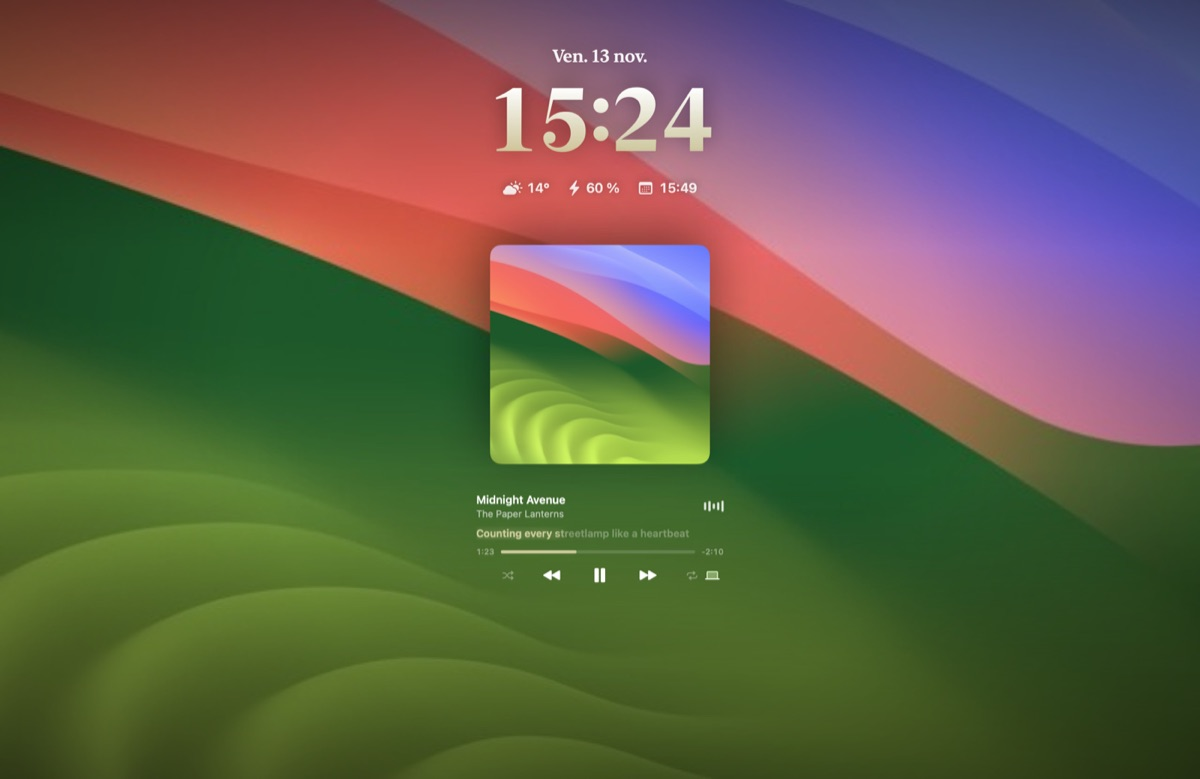
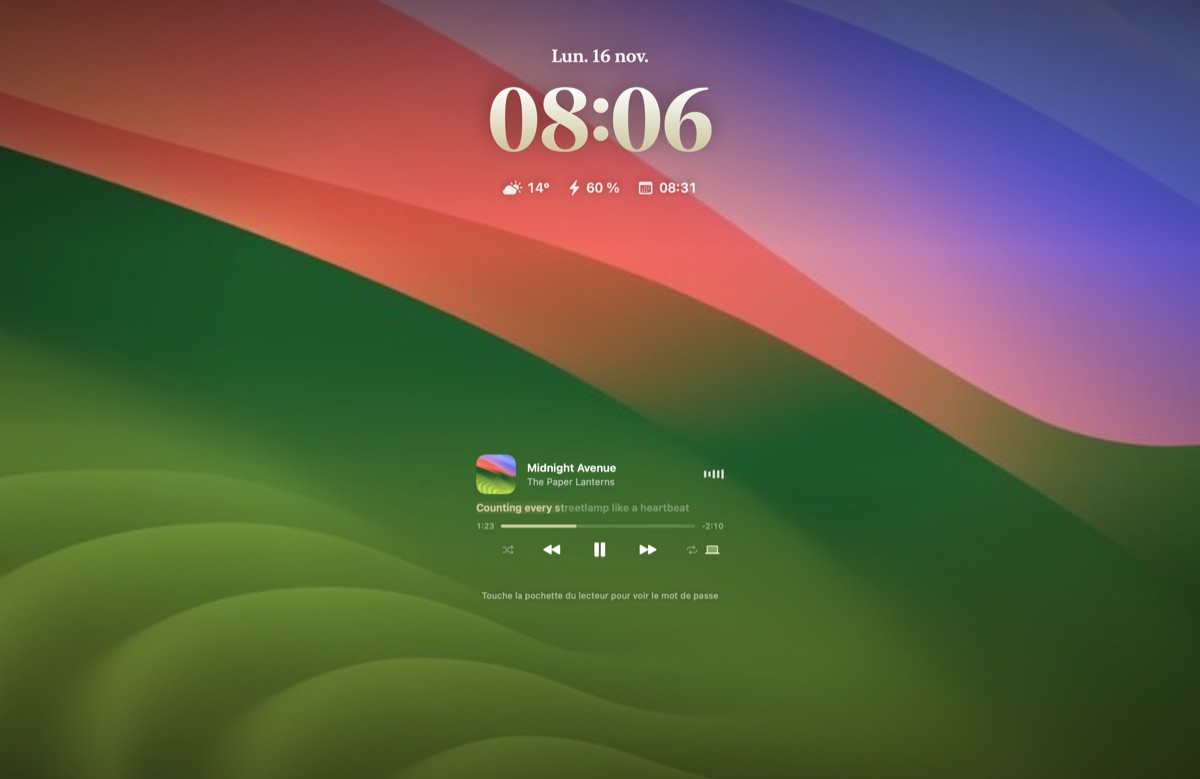
feat(écran verrouillé): pochette du lecteur pour masquer le fond
- un clic sur la pochette du lecteur masque ou remet le fond plein écran,
  pour retrouver l'heure de macOS et le champ du mot de passe ; le fond revient à chaque verrouillage
- plus de pochette moyenne au centre en plein écran (seulement dans le style Grande pochette)
- le lecteur reste en bas de l'écran, fond affiché ou masqué
- README et capture mis à jour

Changed region(s): [[0.37, 0.2465, 0.6167, 0.7702], [0.4008, 0.0616, 0.6167, 0.2465]]

diff --git a/Sources/DynamicIslandMac/LockScreen.swift b/Sources/DynamicIslandMac/LockScreen.swift
@@ -90,11 +90,26 @@ final class LockScreenController {
             self?.positionAll()
         }
         prepareLockWindows()
-        // Le morceau peut arriver ou changer pendant le verrouillage : le fond suit.
-        model.$track.receive(on: RunLoop.main).sink { [weak self] _ in
-            guard let self, self.isLocked, AppSettings.shared.lockScreen else { return }
-            DispatchQueue.main.async { self.lockBackground?.alphaValue = self.showsBackground ? 1 : 0 }
-        }.store(in: &cancellables)
+        // Le morceau peut changer pendant le verrouillage, et un clic sur la pochette masque le fond.
+        model.$track.map { _ in () }.merge(with: model.$lockBackgroundHidden.map { _ in () })
+            .receive(on: RunLoop.main)
+            .sink { [weak self] in
+                DispatchQueue.main.async {
+                    guard let self else { return }
+                    let visible = self.showsBackground
+                    if self.isLocked, AppSettings.shared.lockScreen {
+                        NSAnimationContext.runAnimationGroup { ctx in
+                            ctx.duration = 0.35
+                            self.lockBackground?.animator().alphaValue = visible ? 1 : 0
+                        }
+                    }
+                    if let preview = self.previewBackground, self.previewWindow?.isVisible == true {
+                        visible ? preview.orderFrontRegardless() : preview.orderOut(nil)
+                        self.previewWindow?.orderFrontRegardless()
+                    }
+                }
+            }
+            .store(in: &cancellables)
     }
 
     private func prepareLockWindows() {
@@ -118,7 +133,7 @@ final class LockScreenController {
     }
 
     private var showsBackground: Bool {
-        AppSettings.shared.lockScreenStyle == .fullScreen && model.track != nil
+        AppSettings.shared.lockScreenStyle == .fullScreen && model.track != nil && !model.lockBackgroundHidden
     }
 
     private func locked() {
@@ -126,6 +141,7 @@ final class LockScreenController {
         debugLog("lock: écran verrouillé (option \(AppSettings.shared.lockScreen))")
         guard AppSettings.shared.lockScreen, let w = lockWindow, let bg = lockBackground else { return }
         refreshNowPlaying?()
+        model.lockBackgroundHidden = false // à chaque verrouillage, le fond revient
         positionAll()
         bg.alphaValue = showsBackground ? 1 : 0
         w.alphaValue = 1
@@ -204,7 +220,7 @@ struct LockScreenView: View {
 
     var body: some View {
         GeometryReader { geo in
-            let fullScreen = settings.lockScreenStyle == .fullScreen && model.track != nil
+            let fullScreen = settings.lockScreenStyle == .fullScreen && model.track != nil && !model.lockBackgroundHidden
             ZStack(alignment: .top) {
                 VStack(spacing: 0) {
                     if fullScreen {
@@ -219,7 +235,7 @@ struct LockScreenView: View {
                     Spacer(minLength: 16)
                     if let track = model.track {
                         VStack(spacing: 22) {
-                            if settings.lockScreenStyle != .card {
+                            if settings.lockScreenStyle == .bigArt {
                                 ArtworkView(image: model.artwork,
                                             size: min(geo.size.height * (fullScreen ? 0.34 : 0.28), 320),
                                             radius: 14)
@@ -228,11 +244,21 @@ struct LockScreenView: View {
                                     .transition(.scale(scale: 0.92).combined(with: .opacity))
                             }
                             LockPlayerCard(model: model, track: track, compact: fullScreen)
+                            if settings.lockScreenStyle == .fullScreen {
+                                Text(model.lockBackgroundHidden
+                                     ? "Touche la pochette du lecteur pour la remettre en plein écran"
+                                     : "Touche la pochette du lecteur pour voir le mot de passe")
+                                    .font(.system(size: 11, weight: .medium))
+                                    .foregroundStyle(.white.opacity(0.55))
+                                    .shadow(color: .black.opacity(0.4), radius: 4)
+                            }
                         }
                         .offset(y: -CGFloat(settings.lockScreenOffset))
                         .transition(.opacity.combined(with: .move(edge: .bottom)))
                     }
+                    // Style plein écran : le lecteur reste en bas, que le fond soit affiché ou masqué.
                     Spacer(minLength: 28)
+                        .frame(maxHeight: settings.lockScreenStyle == .fullScreen ? geo.size.height * 0.07 : .infinity)
                 }
                 .frame(width: geo.size.width, height: geo.size.height)
             }
@@ -357,7 +383,13 @@ struct LockPlayerCard: View {
     var body: some View {
         VStack(spacing: compact ? 8 : 10) {
             HStack(spacing: 14) {
-                if !compact { ArtworkView(image: model.artwork, size: 58, radius: 12) }
+                ArtworkView(image: model.artwork, size: compact ? 50 : 58, radius: 12)
+                    .contentShape(Rectangle())
+                    .onTapGesture {
+                        guard AppSettings.shared.lockScreenStyle == .fullScreen else { return }
+                        model.lockBackgroundHidden.toggle()
+                    }
+                    .help("Masquer ou afficher la pochette en plein écran")
                 VStack(alignment: .leading, spacing: 2) {
                     Text(track.title).font(.system(size: 14, weight: .semibold))
                     Text(track.artist).font(.system(size: 12)).foregroundStyle(.white.opacity(0.65))

diff --git a/Sources/DynamicIslandMac/NotchModel.swift b/Sources/DynamicIslandMac/NotchModel.swift
@@ -156,6 +156,8 @@ final class NotchModel: ObservableObject {
     @Published var events: [AgendaEvent] = []
     @Published var weather: WeatherInfo?
     @Published var clipboard: [ClipItem] = []
+    /// Écran verrouillé : fond plein écran masqué par un clic sur la pochette (pour le mot de passe).
+    @Published var lockBackgroundHidden = false
     @Published var shelf: [URL] = [] {
         didSet { UserDefaults.standard.set(shelf.map(\.path), forKey: "shelf") }
     }

diff --git a/README.md b/README.md
@@ -55,13 +55,13 @@
 
 ## Sur l'écran verrouillé
 
-Verrouille ton Mac (⌃⌘Q) pendant que la musique joue, ou même en pause : la pochette remplit tout l'écran, nette au centre et floutée vers les bords. Par-dessus, l'heure en grand, la météo, la batterie, la pochette et un petit lecteur en verre pour piloter la musique sans déverrouiller.
+Verrouille ton Mac (⌃⌘Q) pendant que la musique joue, ou même en pause : la pochette remplit tout l'écran, nette au centre et floutée vers les bords. Par-dessus, l'heure en grand, la météo, la batterie et un petit lecteur en verre pour piloter la musique sans déverrouiller. Touche la pochette du lecteur pour masquer le fond et retrouver le champ du mot de passe ; touche-la encore pour le remettre.
 
 <p align="center">
   <img src="docs/screens/ecran-verrouille.jpg" width="720" alt="L'écran verrouillé avec la pochette en fond">
 </p>
 
-Deux styles plus sobres existent, « Grande pochette » et « Carte », qui gardent le fond d'écran de macOS. Le mot de passe et Touch ID marchent toujours : le fond laisse passer les clics, et une option garde le champ du mot de passe visible.
+Deux styles plus sobres existent, « Grande pochette » et « Carte », qui gardent le fond d'écran de macOS. Le mot de passe et Touch ID marchent toujours, même fond affiché : le fond laisse passer les clics, et une option garde le champ du mot de passe visible en permanence.
 
 > [!NOTE]
 > L'écran verrouillé passe par une API privée de macOS. Elle peut cesser de fonctionner après une mise à jour du système : l'option se désactive dans les réglages.
